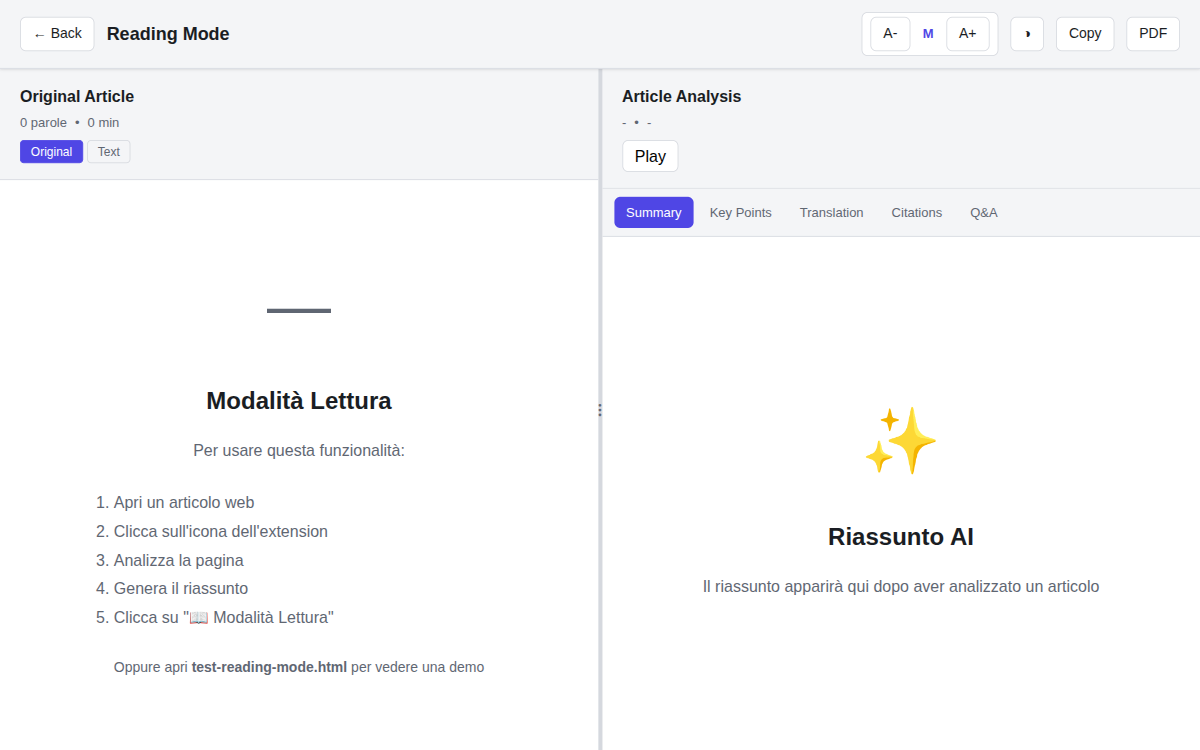
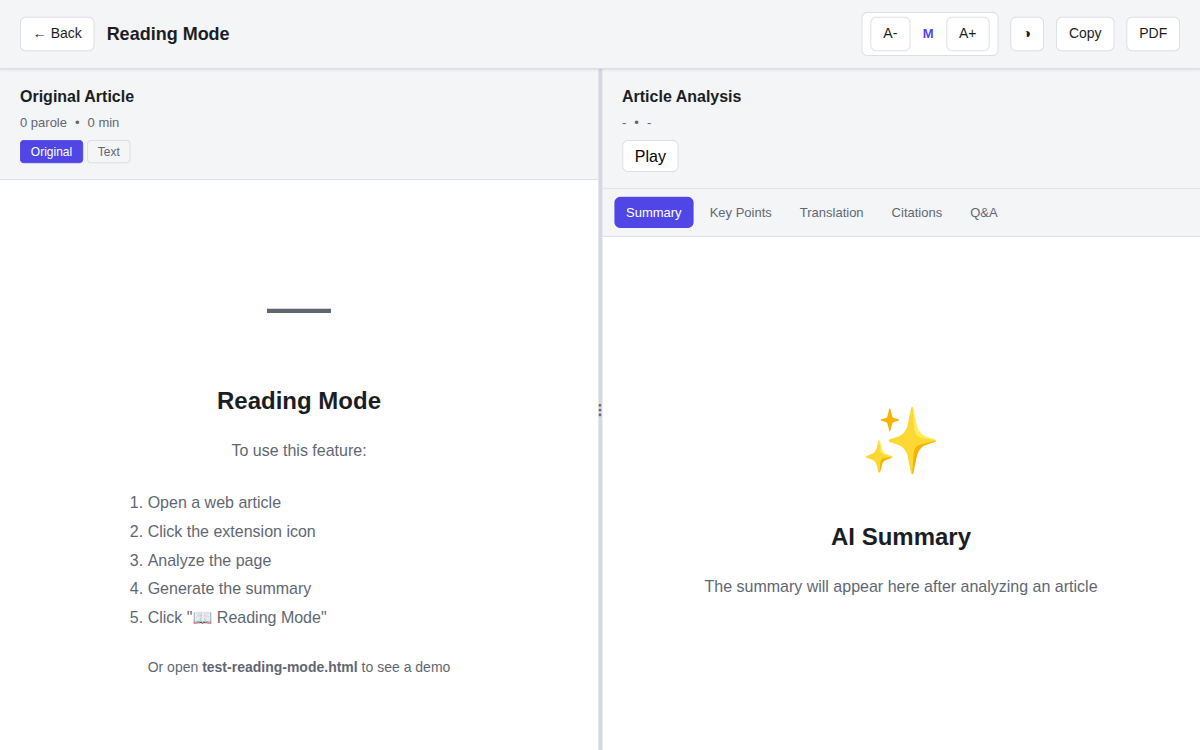
fix(i18n): translate reading-mode empty state placeholder content
The no-data message shown when no article is loaded was hardcoded in
Italian. Now uses I18n.t() for all placeholder strings including
step-by-step instructions and AI summary placeholder.

diff --git a/src/pages/reading-mode/reading-mode.js b/src/pages/reading-mode/reading-mode.js
@@ -274,19 +274,19 @@ function showNoDataMessage() {
     <div class="loading-state">
       <div class="no-data-inner">
         <div class="no-data-emoji">—</div>
-        <h2 class="no-data-title">Modalità Lettura</h2>
+        <h2 class="no-data-title">${I18n.t('reading.noData.title')}</h2>
         <p class="no-data-subtitle">
-          Per usare questa funzionalità:
+          ${I18n.t('reading.noData.subtitle')}
         </p>
         <ol class="no-data-list">
-          <li>Apri un articolo web</li>
-          <li>Clicca sull'icona dell'extension</li>
-          <li>Analizza la pagina</li>
-          <li>Genera il riassunto</li>
-          <li>Clicca su "📖 Modalità Lettura"</li>
+          <li>${I18n.t('reading.noData.step1')}</li>
+          <li>${I18n.t('reading.noData.step2')}</li>
+          <li>${I18n.t('reading.noData.step3')}</li>
+          <li>${I18n.t('reading.noData.step4')}</li>
+          <li>${I18n.t('reading.noData.step5')}</li>
         </ol>
         <p class="no-data-hint">
-          Oppure apri <strong>test-reading-mode.html</strong> per vedere una demo
+          ${I18n.t('reading.noData.hint')}
         </p>
       </div>
     </div>
@@ -295,9 +295,9 @@ function showNoDataMessage() {
     <div class="loading-state">
       <div class="no-data-inner">
         <div class="no-data-emoji">✨</div>
-        <h2 class="no-data-title">Riassunto AI</h2>
+        <h2 class="no-data-title">${I18n.t('reading.noData.summaryTitle')}</h2>
         <p class="no-data-summary-subtitle">
-          Il riassunto apparirà qui dopo aver analizzato un articolo
+          ${I18n.t('reading.noData.summarySubtitle')}
         </p>
       </div>
     </div>